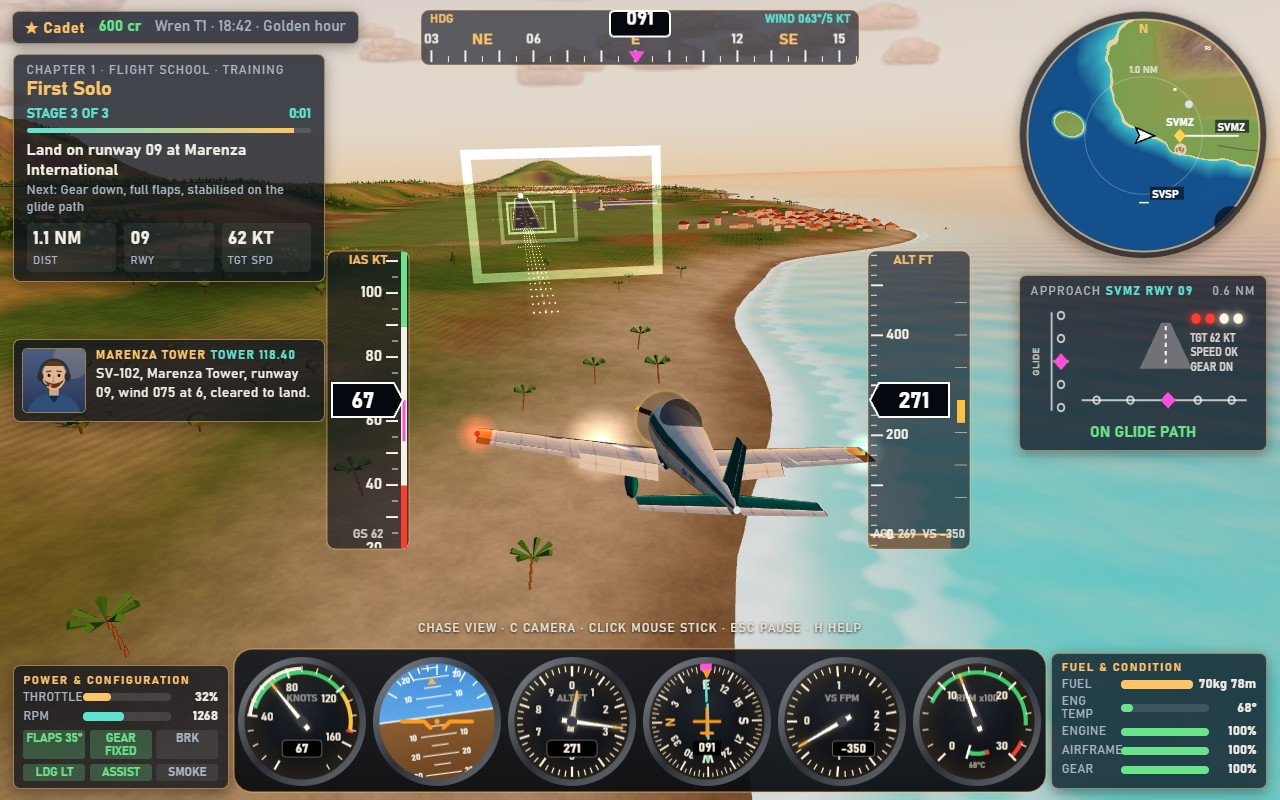
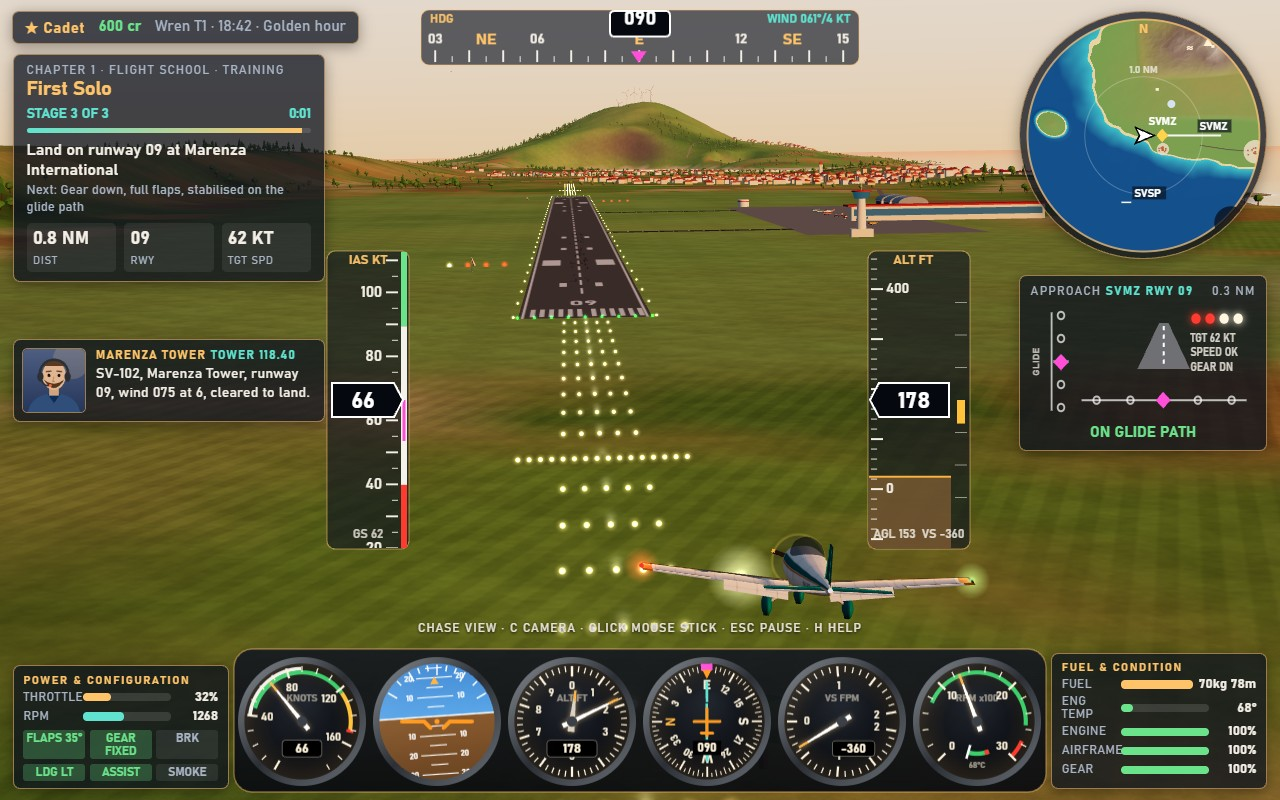
Cover re-staged as a short final at about 150 ft: long-lens chase view from behind and a little left, the aircraft in the lower third, the approach lights leading to a large runway with readable edge lights, PAPI and markings, the glide-path frames hidden for the shot; PAPI lights drawn larger; chas

diff --git a/game/src/core/screenshotScenes.js b/game/src/core/screenshotScenes.js
@@ -26,16 +26,20 @@ export function stageScreenshot(name, game) {
     game.backdrop.setAngle(80);
     for (let i = 0; i < 240; i += 1) game.frame(STEP);
   } else if (name === 'cover') {
-    // Short final to runway 09 at Marenza International, coming in off the sea at golden hour:
-    // the beach, Porto Celeste and the Monte Aurio range ahead, seen from behind the right wing.
+    // Short final to runway 09 at Marenza International at golden hour, about 150 ft AGL and
+    // 640 m from the threshold on the 3° path, seen through a long lens from behind and a little
+    // to the left: the aircraft in the lower third, the approach lights leading to the runway
+    // with its edge lights, PAPI and markings, Porto Celeste and the hills beyond.
     game.startMission(missionById('first-solo'));
     game.runner.skipTo(2);
     const spec = session.spec;
-    session.simulation.start(spec, { ...approachPlacement(spec, 'marenza', 0, 1180, { flaps: 2, offset: -10, height: 0 }), bank: 8, throttle: 0.32 }, { birds: false });
+    session.simulation.start(spec, { ...approachPlacement(spec, 'marenza', 0, 640, { flaps: 2 }), bank: 4, throttle: 0.32 }, { birds: false });
     session.body.landingLights = true;
     game.controls.controls.throttle = 0.32;
-    Object.assign(game.cameras.chaseFraming, { height: 1.5, distance: 1.0, lookAhead: 10, lookUp: -1.5, yaw: -0.17 });
+    Object.assign(game.cameras.chaseFraming, { height: 2.6, distance: 3.4, lookAhead: 750, lookUp: -52, yaw: -0.1, fov: 24 });
     run(game, 1.6);
+    // The 3D glide-path frames would stand between the camera and the runway: hide them here.
+    game.runnerContext.scene.getObjectByName('glide-path-gates').visible = false;
     game.hud.radio.say('dario', 'SV-102, Marenza Tower, runway 09, wind 075 at 6, cleared to land.', { priority: true });
     game.hud.radio.hold();
     run(game, 0.4);

diff --git a/game/src/world/airfieldBuilder.js b/game/src/world/airfieldBuilder.js
@@ -364,7 +364,7 @@ export function buildAirfields(terrain) {
   if (approachLights) group.add(approachLights);
 
   const papiBatch = createLightBatch();
-  for (const papi of papis) for (const l of papi.lights) papiBatch.add(l.x, l.y, l.z, RED, 3.6);
+  for (const papi of papis) for (const l of papi.lights) papiBatch.add(l.x, l.y, l.z, RED, 5.4);
   const papiPoints = papiBatch.build();
   papiPoints.material.userData.fixed = 1.4;
   group.add(papiPoints);

diff --git a/game/src/camera/cameraDirector.js b/game/src/camera/cameraDirector.js
@@ -70,7 +70,7 @@ export function createCameraDirector(camera) {
         camera.up.set(0, 1, 0);
         camera.lookAt(body.position);
       } else {
-        setFov(60);
+        setFov(chase.framing.fov ?? 60);
         chase.update(camera, body, spec, dt, world, look);
       }
       return null;
